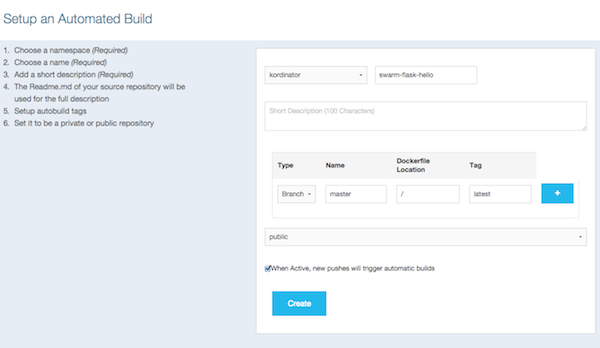
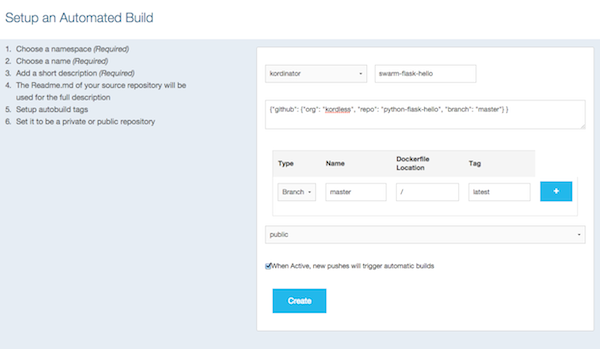
readme instructions

diff --git a/README.md b/README.md
@@ -21,9 +21,9 @@ This project should take you about 10 minutes to run through. We'll start by for
 #### Fork the Repo
 Start by heading over to [the swarm-flask-hello repo](https://github.com/giantswarm/swarm-flask-hello) and **fork it** into your Github account. Make sure you leave the repository public!
 
-There are detailed [instructions](https://github.com/giantswarm/swarm-flask-helloworld/blob/master/README.md#flask-helloworld) on the repository's `README.md` file you may follow.
+There are detailed [instructions](https://github.com/giantswarm/swarm-flask-helloworld/blob/master/README.md#flask-helloworld) on the repository's `README.md` file you may follow. The basics are covered here for review. 
 
-Verify you have built and checked in the `swarm-api.json` file for the `swarm-flask-hello` repo:
+Start by verifying you have built and checked in the `swarm-api.json` file for the `swarm-flask-hello` repo:
 
 ```
 $ cd swarm-flask-hello # ensure this is your forked copy
@@ -57,11 +57,23 @@ You are now ready to connect this repository to your Docker Hub account.
 #### Create Automated Build on Docker Hub
 Start by creating an account on [Docker Hub](https://hub.docker.com/) if you don't have one, and then logging into your account.
 
-Click on the `Create` pulldown on the top left of Docker Hub and then click on `Create Automated Build`. If you haven't linked a Github account yet, you will need to do so before continuing with this guide.
+Click on the `Create` pulldown on the top left of Docker Hub and then click on `Create Automated Build`. If you haven't linked a Github account yet, you will need to do so before continuing with this step. Ensure you give Docker Hub read *and* write access to your Github account.
 
 Select or search for the `swarm-flask-hello` repository in the list Docker Hub displays. Once you've selected the repository, you'll be presented with the `Automated Build` page:
 
 ![](https://raw.githubusercontent.com/giantswarm/swarm-inception/master/assets/setupbuild.png)
 
+As shown in the screenshot, you will need to add a snippet of JSON to the `short descriptionn` for the build repo. The reason for this is because Docker Hub won't pass on the Github repository information in the POST hook call we're going to set up in a few minutes.
 
-{"github": {"org": "kordless", "repo": "python-flask-helloworld", "branch": "master"} }
+Here's a sample of the JSON you need to paste in:
+
+```
+{"github": {"org": "kordless", "repo": "python-flask-hello", "branch": "master"} }
+```
+
+Substitute your Github username for `kordless` in the example above and then click on the `Create` button at the bottom of the page to create the new Docker Hub repository build.
+
+**Note:** If you only gave Docker Hub read access to your Github account, you will need to create a build trigger URL. Click on `Build Settings` under the new repo and then click on `Activate` toward the bottom to create a URL to use trigger the build. You will need to paste this URL into the Github repository's webhooks by clicking on `Settings` and `Webhooks & services` on the Github repository you cloned earlier.
+
+#### 
+
